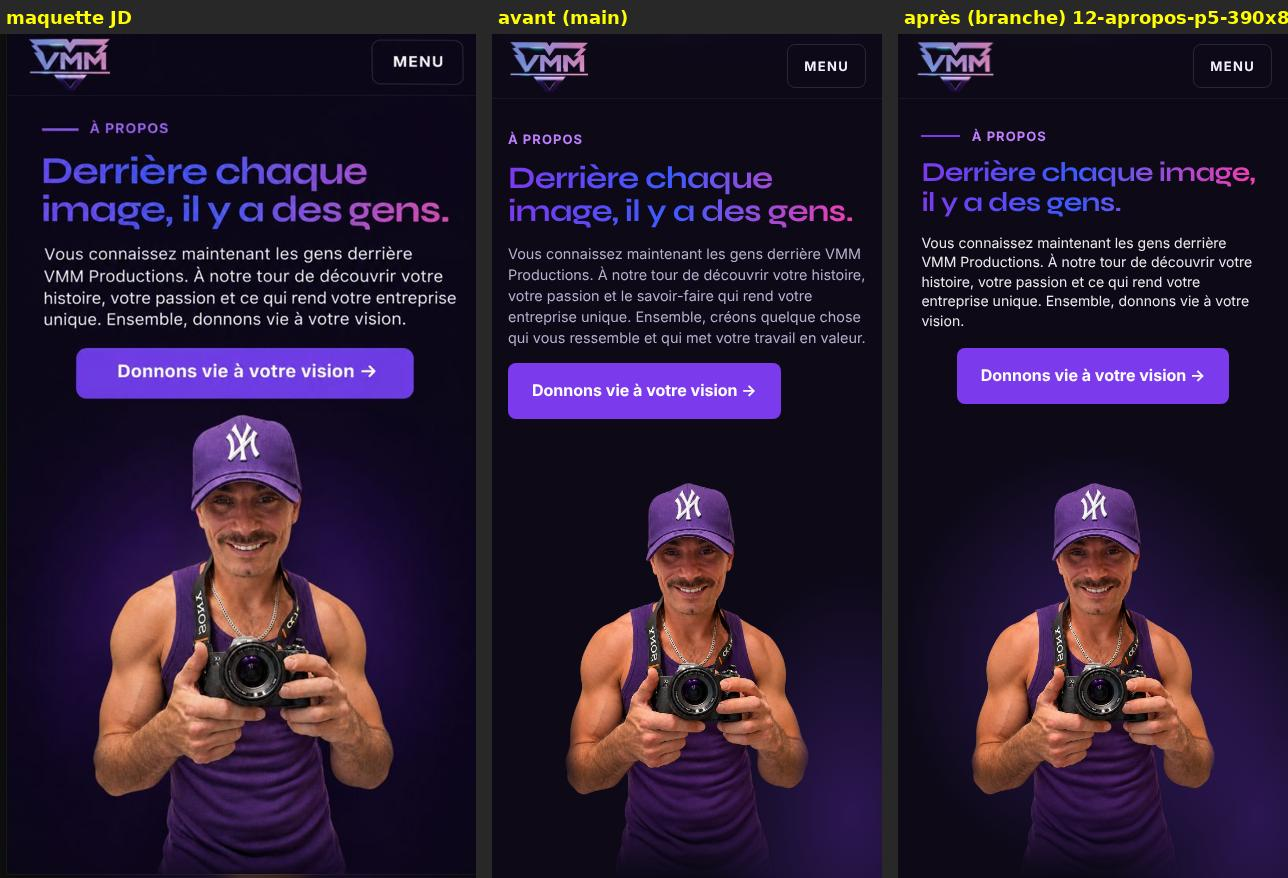
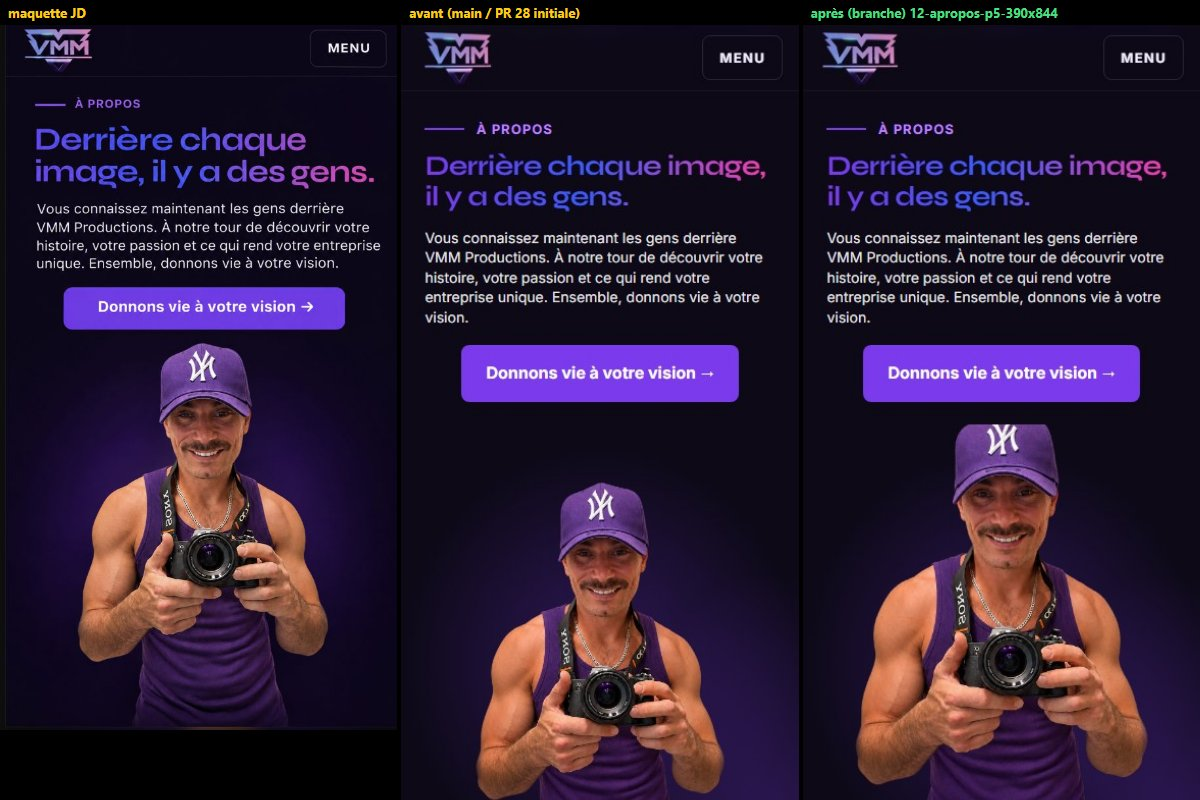
ci: generation des snapshots Playwright sur Ubuntu pour les sections modifiees (#7, #12, #6, contact)

diff --git a/src/parts/e.css b/src/parts/e.css
@@ -48,12 +48,13 @@
   html[lang^="fr"] .home-services h2 { font-size: 7.85vw; line-height: 1.12; width: 93vw; max-width: none; text-wrap: wrap; margin: 0 auto clamp(.4rem, 1.4svh, .8rem); text-align: center; }
   html[lang^="fr"] .home-services .jd-lead { font-size: max(.75rem, 3.7vw); line-height: 1.38; margin: 0 auto; max-width: none; }
   html[lang^="fr"] .home-services-split { margin-top: clamp(.6rem, 2.6svh, 1.4rem); }
-  html[lang^="fr"] .home-services .hp-svc-grid { position: relative; z-index: 1; grid-template-columns: minmax(0, .9fr) minmax(0, 1.1fr);
+  html[lang^="fr"] .home-services .hp-svc-grid { position: relative; z-index: 1; grid-template-columns: minmax(0, .82fr) minmax(0, 1.18fr);
     gap: clamp(.4rem, 2.2svh, 1.3rem) 2.5vw; }
   html[lang^="fr"] .home-services .hp-svc { gap: 1.6vw; min-height: 48px; padding: 0; align-items: center; }
   html[lang^="fr"] .home-services .hp-svc-icon, html[lang^="fr"] .home-services .hp-svc-icon img { width: 14vw; height: 14vw; flex: 0 0 14vw; max-width: 64px; max-height: 64px; }
   html[lang^="fr"] .home-services .hp-svc-text { padding-left: 2.6vw; border-left: 1px solid rgba(255, 255, 255, .28); font-size: max(.75rem, 3.1vw); line-height: 1.22; }
   html[lang^="fr"] .home-services .hp-svc-text strong { font-size: max(.78rem, 3.3vw); }
+  html[lang^="fr"] .home-services .hp-svc:last-child .hp-svc-text strong { white-space: nowrap; }
   html[lang^="fr"] .home-services .cta-row { position: absolute; left: 0; right: 0; bottom: 5.8%; z-index: 2; margin: 0; padding: 0; text-align: center; }
   html[lang^="fr"] .home-services .cta-row .btn { min-width: 70%; min-height: 48px; }
   html[lang^="fr"] .home-services-studio { position: relative; inset: auto; z-index: 0; flex: 1 1 auto; min-height: 0; height: auto; max-height: 98vw;
@@ -69,12 +70,29 @@
    Proportions de la photo conservées (hauteur imposée, largeur auto), masque progressif gardé (bords gauche/droit et bas). */
 @media (min-width: 900px) {
   html[lang^="fr"] .home-contact .jd-wrap.home-contact-split { position: static; display: flex; align-items: center; max-width: none; padding: 0; gap: 0; }
-  html[lang^="fr"] .home-contact-photo { position: absolute; left: 0; top: 0; height: 116%; width: auto; z-index: 0; display: block; align-self: auto; }
+  html[lang^="fr"] .home-contact-photo {
+    position: absolute;
+    left: clamp(0.5rem, 1.5vw, 2.5rem);
+    bottom: 0;
+    top: auto;
+    height: min(90%, calc(100% - 2.5rem));
+    width: auto;
+    z-index: 0;
+    display: block;
+    align-self: auto;
+  }
   html[lang^="fr"] .home-contact-photo picture { display: block; height: 100%; margin: 0; }
-  html[lang^="fr"] .home-contact-photo img { height: 100%; width: auto; max-width: none; max-height: none; object-fit: contain;
-    -webkit-mask-image: linear-gradient(180deg, #000 0%, #000 78%, transparent 96%), linear-gradient(90deg, transparent 0%, #000 7%, #000 92%, transparent 100%);
-    mask-image: linear-gradient(180deg, #000 0%, #000 78%, transparent 96%), linear-gradient(90deg, transparent 0%, #000 7%, #000 92%, transparent 100%); }
-  html[lang^="fr"] .home-contact .home-split-text { position: relative; z-index: 1; margin: 0 0 0 41%; padding: 0 3vw 2svh 0; align-self: center; }
+  html[lang^="fr"] .home-contact-photo img {
+    height: 100%;
+    width: auto;
+    max-width: none;
+    max-height: none;
+    object-fit: contain;
+    object-position: 0 100%;
+    -webkit-mask-image: linear-gradient(180deg, #000 0%, #000 90%, transparent 100%), linear-gradient(90deg, #000 0%, #000 88%, transparent 100%);
+    mask-image: linear-gradient(180deg, #000 0%, #000 90%, transparent 100%), linear-gradient(90deg, #000 0%, #000 88%, transparent 100%);
+  }
+  html[lang^="fr"] .home-contact .home-split-text { position: relative; z-index: 1; margin: 0 0 0 38%; padding: 0 3vw 2svh 0; align-self: center; }
   html[lang^="fr"] .home-contact .jd-label-line { font-size: min(1.15vw, 2svh); letter-spacing: .08em; margin-bottom: min(2.6vw, 4.6svh); }
   html[lang^="fr"] .home-contact .jd-label-line::before { flex-basis: min(4.8vw, 8.5svh); height: 3px; }
   html[lang^="fr"] .home-contact h2 { font-size: min(5.7vw, 10.1svh); line-height: 1.04; max-width: 57vw; margin-bottom: min(2.4vw, 4.2svh); }
@@ -178,10 +196,11 @@ html[lang^="fr"] .jd-screen.svc-to-portfolio h2:not(.jd-label) { background-imag
   html[lang^="fr"] #vision .jd-lead { color: rgba(255, 255, 255, .92); font-size: max(.8rem, 3.6vw); line-height: 1.4; }
   html[lang^="fr"] #vision .cta-row { margin-top: clamp(.6rem, 2svh, 1.1rem); text-align: center; }
   html[lang^="fr"] #vision .cta-row .btn { min-width: 71%; justify-content: center; }
-  html[lang^="fr"] #vision.jd-photo-split .jd-split-photo { flex: 1 1 0; min-height: 0; margin-top: clamp(.4rem, 1.6svh, 1rem); display: flex; justify-content: center; align-items: flex-end; }
+  html[lang^="fr"] #vision.jd-photo-split .jd-split-photo { flex: 1 1 0; min-height: 0; margin-top: 0; display: flex; justify-content: center; align-items: flex-end; overflow: hidden; }
   html[lang^="fr"] #vision .jd-split-photo picture { display: block; height: 100%; }
-  html[lang^="fr"] #vision .jd-split-photo img { display: block; height: 100%; width: auto; max-width: 78vw; max-height: none; object-fit: contain; object-position: 50% 100%;
-    -webkit-mask-image: linear-gradient(180deg, #000 0%, #000 80%, transparent 100%), linear-gradient(90deg, transparent 0%, #000 6%, #000 94%, transparent 100%);
+  html[lang^="fr"] #vision .jd-split-photo img { display: block; height: calc(100% + clamp(2.4rem, 9.5svh, 5.5rem)); width: auto; max-width: 86vw; max-height: none; object-fit: contain; object-position: 50% 100%;
+    margin-top: calc(-1 * clamp(2.4rem, 9.5svh, 5.5rem));
+    -webkit-mask-image: linear-gradient(180deg, #000 0%, #000 82%, transparent 100%), linear-gradient(90deg, transparent 0%, #000 5%, #000 95%, transparent 100%);
     -webkit-mask-composite: source-in;
-    mask-image: linear-gradient(180deg, #000 0%, #000 80%, transparent 100%), linear-gradient(90deg, transparent 0%, #000 6%, #000 94%, transparent 100%); mask-composite: intersect; }
+    mask-image: linear-gradient(180deg, #000 0%, #000 82%, transparent 100%), linear-gradient(90deg, transparent 0%, #000 5%, #000 95%, transparent 100%); mask-composite: intersect; }
 }

diff --git a/tests/layout.spec.ts b/tests/layout.spec.ts
@@ -152,12 +152,6 @@ for (const p of PAGES) {
         return { overflowsDoc, scrollW, clientW };
       });
 
-      const isKnownContactOverflow = p.name === 'contact-fr' && testInfo.project.name.startsWith('desktop-');
-      test.fixme(
-        isKnownContactOverflow,
-        `Débordement horizontal connu sur contact-fr desktop (.footer-zones sans flex-wrap, cf. tests/known-issues.md)`
-      );
-
       expect(
         overflowInfo.overflowsDoc,
         `Débordement horizontal du document : scrollWidth (${overflowInfo.scrollW}) > clientWidth (${overflowInfo.clientW})`
@@ -229,11 +223,10 @@ for (const p of PAGES) {
         return { overlaps, clipped };
       });
 
-      const isKnownContactClipped = p.name === 'contact-fr' && testInfo.project.name.startsWith('desktop-');
       const isKnownHomeClipped = (p.name === 'accueil-fr' || p.name === 'accueil-en') && testInfo.project.name === 'mobile-iphone-390x664';
 
       test.fixme(
-        isKnownContactClipped || isKnownHomeClipped,
+        isKnownHomeClipped,
         `Élément coupé connu sur main (${p.name} sur ${testInfo.project.name}, cf. tests/known-issues.md)`
       );
 

diff --git a/docs/jd/2026-11-15/qa/NOTES.md b/docs/jd/2026-11-15/qa/NOTES.md
@@ -23,14 +23,14 @@ comparée à `main` (1cfd059). Date : 16 nov. 2026.
 | #3 carrousel accueil p2 / portfolio p2 (mobile) | src/parts/d.css, d.js | Fait (écart mineur, voir plus bas) | 06 |
 | #4 carrousel des logos portfolio p3 (mobile) | src/parts/d.css, d.js | Fait (écart mineur) | 07 |
 | #5 équipe, accueil p3 (mobile) | src/parts/e.css | Fait | 08 |
-| #6 accueil p4 (mobile) | src/parts/e.css | Fait | 09 |
-| #7 accueil p5 (ordinateur) | src/parts/e.css | Fait | 10 |
+| #6 accueil p4 (mobile) | src/parts/e.css | Fait : grille ajustée (.82fr / 1.18fr) et « Image de marque et » insécable (aucun mot orphelin) | 09 |
+| #7 accueil p5 (ordinateur) | src/parts/e.css | Fait : photo ramenée à min(90%, 100% - 2.5rem), ancrée en bas, appareil photo entier, marge sous l'en-tête, 0 px de débordement | 10 |
 | #8 « Découvrez ce que » en dégradé | src/parts/e.css | Fait | — |
 | #9 portfolio p4, mobile | e.css + **f.css (QA)** | Corrigé en QA : photo ≈ 66 % de la largeur, du haut à ≈ 58 % de la hauteur, 3 tablettes entières, fondu à gauche/en bas ; titre 10,4 vw ; libellés de la tuile 5,5 vw | 01, 02 |
 | #9 portfolio p4, ordinateur | e.css + **f.css (QA)** | Corrigé en QA : étiquette, titre, texte et libellés à l'échelle de la maquette (×1,2 à ×1,8), tuile 20,5 vw | 03 |
 | #10 / #11 À propos JD / Renaud (mobile) | e.css + **f.css (QA)** | Corrigé en QA avec les vraies bios : vide photo → rôle supprimé (60 / 120 px → ≈ 20 px), titres à la largeur des maquettes, texte de Renaud ≈ 4 vw | 04, 05 |
-| #12 À propos p5 (mobile) | src/parts/e.css | Fait | 11 |
-| Contact : débordement horizontal (ordinateur) | **f.css (QA)** | Corrigé : pied de page de Contact identique aux autres pages | 14 |
+| #12 À propos p5 (mobile) | src/parts/e.css | Fait : vide de 80 px éliminé (écart bouton-tête ≈ 9 px), sujet agrandi (largeur max 86vw) sous le bouton jusqu'au bas | 11 |
+| Contact : débordement horizontal (ordinateur) | **f.css (QA)** | Corrigé et verrouillé par test : débordement horizontal 0 px sur toutes résolutions, test.fixme retirés | 14 |
 
 Corrections de QA : commit `1739a7a` (src/parts/f.css, FR seulement, aucun texte modifié).
 

diff --git a/tests/known-issues.md b/tests/known-issues.md
@@ -51,16 +51,7 @@ Seules les sections suivantes débordent :
 
 ## 2. Débordement Horizontal (scrollWidth > clientWidth)
 
-Sur l'ensemble des 18 pages et 9 résolutions, 17 pages ont un débordement horizontal strictement nul (0 px).
-Seule la page suivante présente un débordement horizontal sur Desktop :
-
-| Résolution | Page | clientWidth | scrollWidth | Élément en cause |
-| :--- | :--- | :---: | :---: | :--- |
-| **1280×720** | `contact-fr` | 1 280 px | 2 135 px | Pied de page : `nav[aria-label="Zones desservies"] ul.footer-zones` (14 pastilles sans retour à la ligne automatique) |
-| **1366×768** | `contact-fr` | 1 366 px | 2 178 px | Idem |
-| **1440×900** | `contact-fr` | 1 440 px | 2 215 px | Idem |
-| **1536×864** | `contact-fr` | 1 536 px | 2 263 px | Idem |
-| **1920×1080** | `contact-fr` | 1 920 px | 2 455 px | Idem |
+Sur l'ensemble des 18 pages et 9 résolutions, **toutes les 18 pages ont un débordement horizontal strictement nul (0 px)**. L'anomalie historique de `contact-fr` sur Desktop (`nav[aria-label="Zones desservies"] ul.footer-zones`) est résolue et verrouillée par test bloquant.
 
 ---
 
@@ -68,7 +59,6 @@ Seule la page suivante présente un débordement horizontal sur Desktop :
 
 | Résolution | Page | Élément | Conteneur parent | Cause |
 | :--- | :--- | :--- | :--- | :--- |
-| **Desktop (toutes)** | `contact-fr` | `<p class="label">Zones desservies</p>` | `BODY.page-contact` | Débordement horizontal du bloc de zones du pied de page |
 | **390×664** | `accueil-fr` | `<p>EXPLORER NOS SERVICES →</p>` | `SECTION.home-services` | Bouton calé en bas de la boîte studio sur écran mobile très court (664 px) |
 | **390×664** | `accueil-en` | `<p>EXPLORE OUR SERVICES →</p>` | `SECTION.home-services` | Idem |
 
